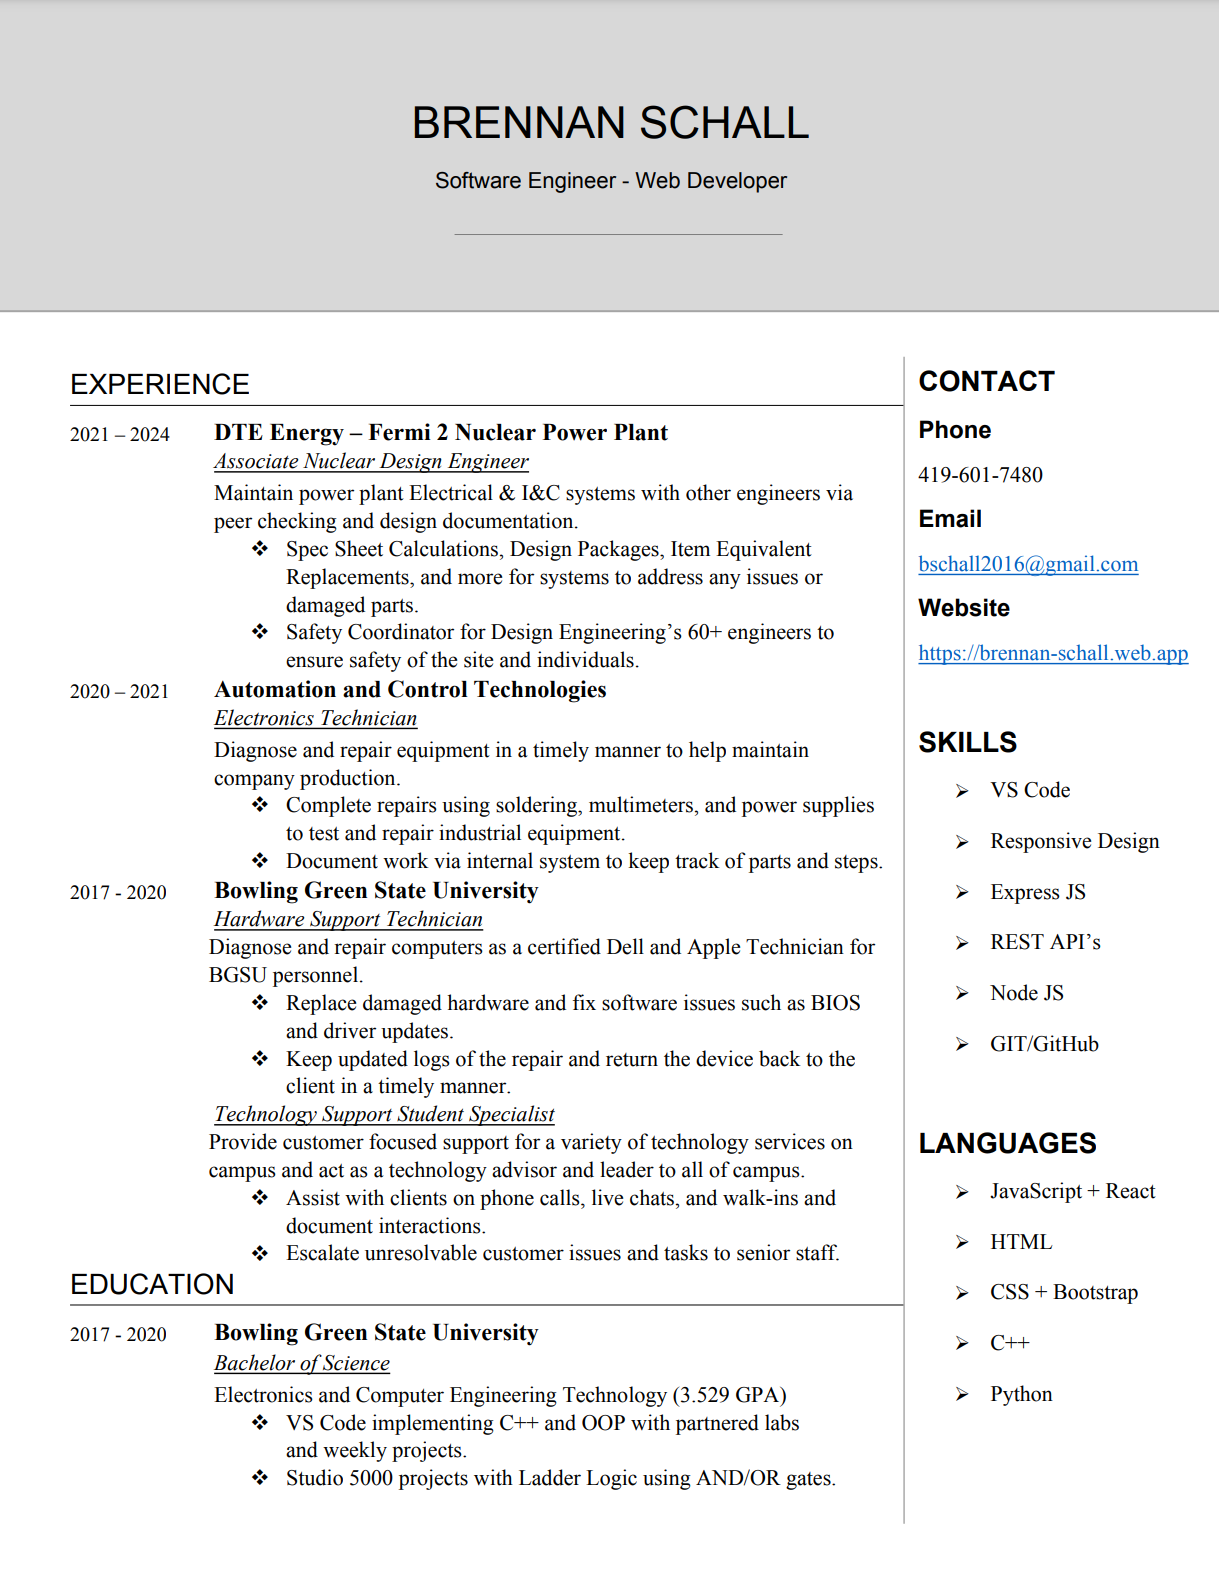
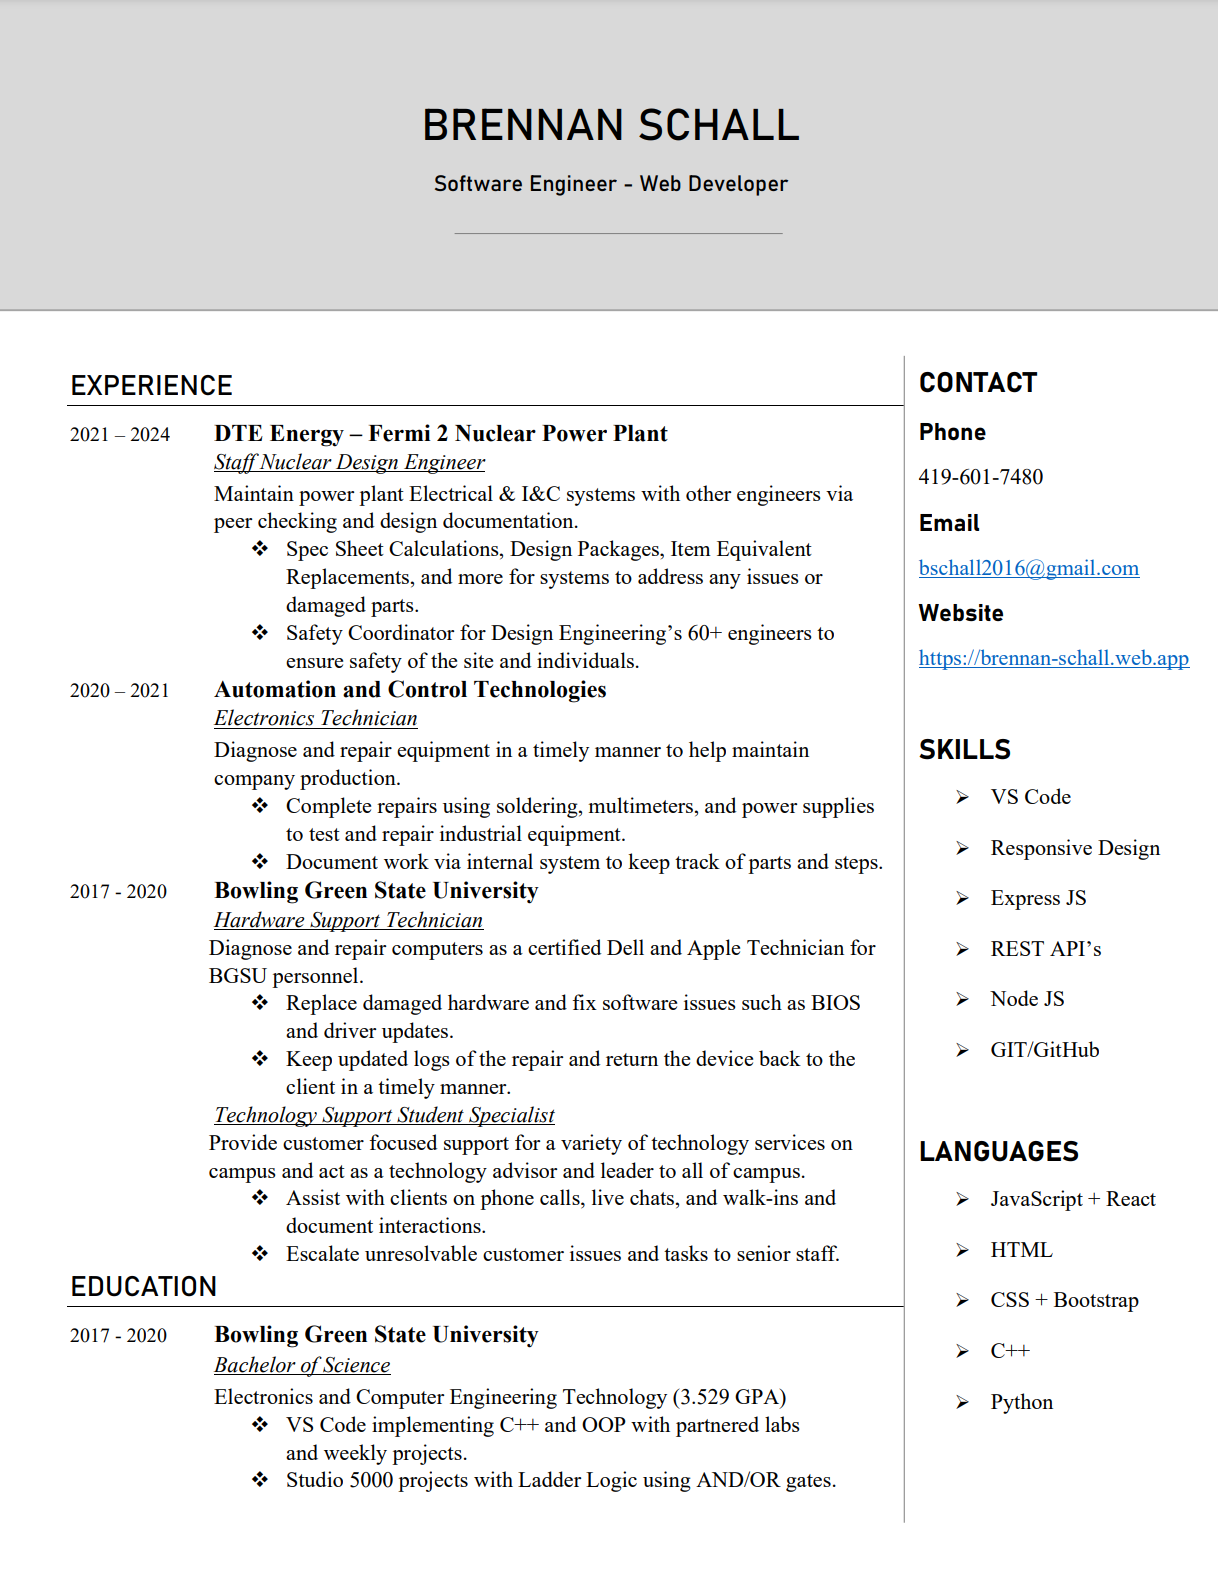
Added updated Resume, deleted comments from CSS file

diff --git a/src/index.css b/src/index.css
@@ -83,14 +83,12 @@
   flex-direction: column;
 }
 .navBarTop {
-  /* animation: fade-down 1s; */
   display: flex;
   align-items: center;
   justify-content: space-between;
   flex-direction: row;
   height: 6vh;
   padding: 0 8rem;
-  /* font-weight: 500; */
 }
 .smallNavLinks {
   display: none;
@@ -144,26 +142,18 @@
   height: 95vh;
   width: 65%;
   justify-content: space-around;
-  /* flex: 1 1 0; */
 }
 
 
 
 
 .homeIntroL {
-  /* flex: 1 1 0; */
   width: 50%;
 }
 .homeIntroParagraph span, .homeIntroTitle, #home h1, .scrollDown {
   color: #1D3557;
   font-weight: 600;
 }
-/* #home h1 {
-  font-size: 2.75rem;
-} */
-/* #home h3 {
-  font-size: 1.5rem;
-} */
 .homeIntroTitle {
   color: #E63946;
   margin-top: 1rem;
@@ -334,13 +324,11 @@
 .projectSkill {
   border-radius: 25px;
   background-color: #F1FAEE;
-  /* border: 1px solid #F1FAEE; */
   padding: .25rem .5rem;
   font-size: .9rem;
 }
 .projectLink {
   border-radius: 25px;
-  /* background-color: #457B9D; */
   border: 1px solid #457B9D;
   color: #F1FAEE;
   padding: .35rem .65rem;
@@ -401,8 +389,6 @@
 
 /************************************HOME ABILITIES************************************/
 .homeAbilities {
-  /* background-color: #A8DADC;
-  width: 100%; */
   flex-direction: column;
   padding: 1rem 0 2rem;
   width: 65%;
@@ -538,14 +524,9 @@
   background-color: #A8DADC;
   flex-direction: column;
   padding: 1rem 0 2rem;
-  /* width: 65%; */
   width: 100%;
 }
 .contactContent {
-  /* display: flex;
-  flex-direction: row;
-  width: 65%;
-  justify-content: space-evenly; */
   display: grid;
   grid-template-columns: 1fr 1.5fr;
   grid-auto-rows: minmax(20rem, auto);
@@ -566,9 +547,6 @@
   width: 100%;
 }
 .contactForm {
-  /* display: flex;
-  justify-content: space-between;
-  flex-direction: column; */
   height: 100%;
   width: 100%;
 }
@@ -624,10 +602,8 @@
 /**************************************************************/
 #about{
   display: flex;
-  /* align-items: center; */
   justify-content: center;
   flex-direction: column;
-  /* height: 100vh; */
   width: 65%;
   margin: 0rem auto 19rem;
   padding: 7rem 0 10rem;
@@ -639,7 +615,6 @@
   display: grid;
   grid-template-columns: 1.5fr 1fr;
   gap: 3rem;
-  /* margin: auto; */
 }
 .aboutText {
   padding-top: 1rem;
@@ -692,10 +667,6 @@
   flex-direction: column;
   margin-top: 1rem;
 }
-/* .resumeEmbed{
-  height: 90vh;
-  width: 100%;
-} */
 .resumeImage {
   border: 1px solid black;
   height: 60%;
@@ -719,9 +690,6 @@
   flex-direction: row;
   height: 6vh;
 }
-/* .footerSocial {
-  margin: auto;
-} */
 .copyrightFooter {
   margin: auto;
 }
@@ -886,7 +854,6 @@
 
   /**************** RESUME ****************/
   .resumeEmbed{
-    /* height: 40vh; */
     width: 80%;
   }
 }
@@ -901,10 +868,6 @@
   }
   .projectsTop, .projectsBottom {
     display: flex;
-    /* grid-auto-rows: 100;
-    grid-template-columns: 100%;
-    grid-template-rows: 1fr;
-    gap: 1rem; */
     gap: 1rem;
     flex-direction: column;
     width: 80%;

diff --git a/src/App.js b/src/App.js
@@ -9,7 +9,6 @@ import Home from "./pages/Home.jsx"
 import About from "./pages/About.jsx"
 import Resume from "./pages/Resume.jsx"
 import Footer from "./components/Footer.jsx"
-import NotFound from "./pages/NotFound.jsx"
 
 
 function App() {
@@ -21,7 +20,7 @@ function App() {
           <Route exact path='/' element={<Home />} />
           <Route exact path='/about' element={<About />} />
           <Route exact path='/resume' element={<Resume />} />
-          <Route path='*' element={<NotFound />} />
+          <Route path='*' element={<Home />} />
         </Routes>
         <Footer />
       </Router>

diff --git a/src/pages/Resume.jsx b/src/pages/Resume.jsx
@@ -1,11 +1,9 @@
-// import Resume2025 from "../documents/Resume 2025.pdf";
 import Resume2025PNG from "../images/Resume.png";
 
 const Resume = () => {
     return <div id="resume">
       <h1>Resume</h1>
       <div className="resumeDiv">
-        {/* <embed src={Resume2025} className="resumeEmbed"></embed> */}
         <img src={Resume2025PNG} alt="Brennan Schall Resume" className="resumeImage" />
       </div>
     </div>;
